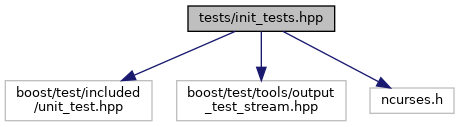
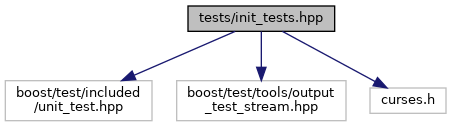
deploy: 6a7ae645a0ec2f01add3d6cbf06ce5fa4452b3d6

diff --git a/test__editor_8cpp.html b/test__editor_8cpp.html
@@ -83,26 +83,27 @@ Include dependency graph for test_editor.cpp:</div>
 <div class="dyncontent">
 <div class="center"><img src="test__editor_8cpp__incl.png" border="0" usemap="#tests_2test__editor_8cpp" alt=""/></div>
 <map name="tests_2test__editor_8cpp" id="tests_2test__editor_8cpp">
-<area shape="rect" title=" " alt="" coords="261,5,416,32"/>
-<area shape="rect" href="init__tests_8hpp.html" title=" " alt="" coords="135,80,246,107"/>
-<area shape="rect" href="editor_8hpp.html" title=" " alt="" coords="559,80,646,107"/>
-<area shape="rect" title=" " alt="" coords="25,155,172,196"/>
-<area shape="rect" title=" " alt="" coords="197,155,366,196"/>
-<area shape="rect" title=" " alt="" coords="319,319,403,345"/>
-<area shape="rect" title=" " alt="" coords="653,319,715,345"/>
-<area shape="rect" href="buffer_8hpp.html" title=" " alt="" coords="503,244,590,271"/>
-<area shape="rect" href="options_8hpp.html" title=" " alt="" coords="529,319,628,345"/>
-<area shape="rect" href="cli_8hpp.html" title=" " alt="" coords="414,244,479,271"/>
-<area shape="rect" href="mapping_8hpp.html" title=" " alt="" coords="716,244,823,271"/>
-<area shape="rect" href="parser_8hpp.html" title=" " alt="" coords="1029,319,1120,345"/>
-<area shape="rect" href="window_8hpp.html" title=" " alt="" coords="391,162,489,189"/>
-<area shape="rect" title=" " alt="" coords="549,393,608,420"/>
-<area shape="rect" title=" " alt="" coords="728,393,779,420"/>
-<area shape="rect" title=" " alt="" coords="791,319,910,345"/>
-<area shape="rect" href="util_8hpp.html" title=" " alt="" coords="934,319,1005,345"/>
-<area shape="rect" title=" " alt="" coords="935,393,1020,420"/>
-<area shape="rect" title=" " alt="" coords="1053,393,1096,420"/>
-<area shape="rect" title=" " alt="" coords="303,244,390,271"/>
+<area shape="rect" title=" " alt="" coords="424,5,579,32"/>
+<area shape="rect" href="init__tests_8hpp.html" title=" " alt="" coords="279,80,390,107"/>
+<area shape="rect" href="editor_8hpp.html" title=" " alt="" coords="741,80,827,107"/>
+<area shape="rect" title=" " alt="" coords="5,155,152,196"/>
+<area shape="rect" title=" " alt="" coords="177,155,346,196"/>
+<area shape="rect" title=" " alt="" coords="370,162,446,189"/>
+<area shape="rect" title=" " alt="" coords="1037,319,1099,345"/>
+<area shape="rect" href="buffer_8hpp.html" title=" " alt="" coords="955,244,1042,271"/>
+<area shape="rect" href="options_8hpp.html" title=" " alt="" coords="812,319,911,345"/>
+<area shape="rect" href="cli_8hpp.html" title=" " alt="" coords="866,244,931,271"/>
+<area shape="rect" href="mapping_8hpp.html" title=" " alt="" coords="521,244,628,271"/>
+<area shape="rect" href="parser_8hpp.html" title=" " alt="" coords="300,319,391,345"/>
+<area shape="rect" href="window_8hpp.html" title=" " alt="" coords="692,162,791,189"/>
+<area shape="rect" title=" " alt="" coords="832,393,891,420"/>
+<area shape="rect" title=" " alt="" coords="703,319,787,345"/>
+<area shape="rect" title=" " alt="" coords="456,393,507,420"/>
+<area shape="rect" title=" " alt="" coords="466,319,585,345"/>
+<area shape="rect" href="util_8hpp.html" title=" " alt="" coords="609,319,679,345"/>
+<area shape="rect" title=" " alt="" coords="347,393,432,420"/>
+<area shape="rect" title=" " alt="" coords="280,393,323,420"/>
+<area shape="rect" title=" " alt="" coords="703,244,790,271"/>
 </map>
 </div>
 </div>

diff --git a/test__buffer_8cpp.html b/test__buffer_8cpp.html
@@ -83,26 +83,27 @@ Include dependency graph for test_buffer.cpp:</div>
 <div class="dyncontent">
 <div class="center"><img src="test__buffer_8cpp__incl.png" border="0" usemap="#tests_2test__buffer_8cpp" alt=""/></div>
 <map name="tests_2test__buffer_8cpp" id="tests_2test__buffer_8cpp">
-<area shape="rect" title=" " alt="" coords="671,5,825,32"/>
-<area shape="rect" href="init__tests_8hpp.html" title=" " alt="" coords="358,80,469,107"/>
-<area shape="rect" href="editor_8hpp.html" title=" " alt="" coords="705,80,791,107"/>
-<area shape="rect" href="buffer_8hpp.html" title=" " alt="" coords="815,244,902,271"/>
-<area shape="rect" title=" " alt="" coords="5,155,152,196"/>
-<area shape="rect" title=" " alt="" coords="177,155,346,196"/>
-<area shape="rect" title=" " alt="" coords="699,319,783,345"/>
-<area shape="rect" title=" " alt="" coords="613,319,675,345"/>
-<area shape="rect" href="options_8hpp.html" title=" " alt="" coords="859,319,957,345"/>
-<area shape="rect" href="cli_8hpp.html" title=" " alt="" coords="978,244,1043,271"/>
-<area shape="rect" href="mapping_8hpp.html" title=" " alt="" coords="421,244,528,271"/>
-<area shape="rect" href="parser_8hpp.html" title=" " alt="" coords="208,319,299,345"/>
-<area shape="rect" href="window_8hpp.html" title=" " alt="" coords="699,162,797,189"/>
-<area shape="rect" title=" " alt="" coords="792,393,851,420"/>
-<area shape="rect" title=" " alt="" coords="455,393,505,420"/>
-<area shape="rect" title=" " alt="" coords="323,319,442,345"/>
-<area shape="rect" href="util_8hpp.html" title=" " alt="" coords="518,319,589,345"/>
-<area shape="rect" title=" " alt="" coords="323,393,408,420"/>
-<area shape="rect" title=" " alt="" coords="232,393,275,420"/>
-<area shape="rect" title=" " alt="" coords="705,244,791,271"/>
+<area shape="rect" title=" " alt="" coords="746,5,901,32"/>
+<area shape="rect" href="init__tests_8hpp.html" title=" " alt="" coords="216,80,327,107"/>
+<area shape="rect" href="editor_8hpp.html" title=" " alt="" coords="780,80,867,107"/>
+<area shape="rect" href="buffer_8hpp.html" title=" " alt="" coords="867,244,953,271"/>
+<area shape="rect" title=" " alt="" coords="106,155,253,196"/>
+<area shape="rect" title=" " alt="" coords="277,155,447,196"/>
+<area shape="rect" title=" " alt="" coords="5,162,81,189"/>
+<area shape="rect" title=" " alt="" coords="696,319,759,345"/>
+<area shape="rect" href="options_8hpp.html" title=" " alt="" coords="942,319,1041,345"/>
+<area shape="rect" href="cli_8hpp.html" title=" " alt="" coords="1029,244,1095,271"/>
+<area shape="rect" href="mapping_8hpp.html" title=" " alt="" coords="522,244,629,271"/>
+<area shape="rect" href="parser_8hpp.html" title=" " alt="" coords="291,319,382,345"/>
+<area shape="rect" href="window_8hpp.html" title=" " alt="" coords="774,162,873,189"/>
+<area shape="rect" title=" " alt="" coords="875,393,934,420"/>
+<area shape="rect" title=" " alt="" coords="783,319,867,345"/>
+<area shape="rect" title=" " alt="" coords="633,393,683,420"/>
+<area shape="rect" title=" " alt="" coords="407,319,525,345"/>
+<area shape="rect" href="util_8hpp.html" title=" " alt="" coords="549,319,620,345"/>
+<area shape="rect" title=" " alt="" coords="453,393,538,420"/>
+<area shape="rect" title=" " alt="" coords="315,393,358,420"/>
+<area shape="rect" title=" " alt="" coords="704,244,791,271"/>
 </map>
 </div>
 </div>

diff --git a/test__window_8cpp.html b/test__window_8cpp.html
@@ -83,18 +83,19 @@ Include dependency graph for test_window.cpp:</div>
 <div class="dyncontent">
 <div class="center"><img src="test__window_8cpp__incl.png" border="0" usemap="#tests_2test__window_8cpp" alt=""/></div>
 <map name="tests_2test__window_8cpp" id="tests_2test__window_8cpp">
-<area shape="rect" title=" " alt="" coords="305,5,471,32"/>
-<area shape="rect" href="init__tests_8hpp.html" title=" " alt="" coords="269,80,379,107"/>
-<area shape="rect" href="window_8hpp.html" title=" " alt="" coords="425,80,524,107"/>
+<area shape="rect" title=" " alt="" coords="343,5,510,32"/>
+<area shape="rect" href="init__tests_8hpp.html" title=" " alt="" coords="307,80,418,107"/>
+<area shape="rect" href="window_8hpp.html" title=" " alt="" coords="504,80,603,107"/>
 <area shape="rect" title=" " alt="" coords="5,155,152,196"/>
 <area shape="rect" title=" " alt="" coords="177,155,346,196"/>
-<area shape="rect" title=" " alt="" coords="393,244,477,271"/>
-<area shape="rect" title=" " alt="" coords="473,162,559,189"/>
-<area shape="rect" href="buffer_8hpp.html" title=" " alt="" coords="583,162,670,189"/>
-<area shape="rect" title=" " alt="" coords="576,319,635,345"/>
-<area shape="rect" title=" " alt="" coords="595,244,658,271"/>
-<area shape="rect" href="options_8hpp.html" title=" " alt="" coords="683,244,781,271"/>
-<area shape="rect" title=" " alt="" coords="707,319,757,345"/>
+<area shape="rect" title=" " alt="" coords="370,162,446,189"/>
+<area shape="rect" title=" " alt="" coords="470,162,557,189"/>
+<area shape="rect" title=" " alt="" coords="553,244,637,271"/>
+<area shape="rect" href="buffer_8hpp.html" title=" " alt="" coords="633,162,719,189"/>
+<area shape="rect" title=" " alt="" coords="693,319,752,345"/>
+<area shape="rect" title=" " alt="" coords="713,244,775,271"/>
+<area shape="rect" href="options_8hpp.html" title=" " alt="" coords="800,244,899,271"/>
+<area shape="rect" title=" " alt="" coords="824,319,875,345"/>
 </map>
 </div>
 </div>

diff --git a/init__tests_8hpp_source.html b/init__tests_8hpp_source.html
@@ -90,7 +90,7 @@ $(function() {
 <div class="line"><a name="l00016"></a><span class="lineno"><a class="line" href="init__tests_8hpp.html#a9bf17d1d419bd14f7448c6f07e6081db">   16</a></span>&#160;<span class="keyword">using</span> <a class="code" href="init__tests_8hpp.html#a9bf17d1d419bd14f7448c6f07e6081db">boost_timeout</a> = boost::unit_test::timeout;</div>
 <div class="line"><a name="l00017"></a><span class="lineno">   17</span>&#160; </div>
 <div class="line"><a name="l00018"></a><span class="lineno">   18</span>&#160; </div>
-<div class="line"><a name="l00019"></a><span class="lineno">   19</span>&#160;<span class="preprocessor">#include &lt;ncurses.h&gt;</span></div>
+<div class="line"><a name="l00019"></a><span class="lineno">   19</span>&#160;<span class="preprocessor">#include &lt;curses.h&gt;</span></div>
 <div class="line"><a name="l00020"></a><span class="lineno">   20</span>&#160; </div>
 <div class="line"><a name="l00021"></a><span class="lineno"><a class="line" href="init__tests_8hpp.html#acc4d9e689a782bde5cf613c651121ba2">   21</a></span>&#160;<span class="keywordtype">void</span> <a class="code" href="init__tests_8hpp.html#acc4d9e689a782bde5cf613c651121ba2">unget_string_to_ncurses</a>(std::string s)</div>
 <div class="line"><a name="l00022"></a><span class="lineno">   22</span>&#160;{</div>

diff --git a/init__tests_8hpp.html b/init__tests_8hpp.html
@@ -79,7 +79,7 @@ $(function() {
 <div class="contents">
 <div class="textblock"><code>#include &lt;boost/test/included/unit_test.hpp&gt;</code><br />
 <code>#include &lt;boost/test/tools/output_test_stream.hpp&gt;</code><br />
-<code>#include &lt;ncurses.h&gt;</code><br />
+<code>#include &lt;curses.h&gt;</code><br />
 </div><div class="textblock"><div class="dynheader">
 Include dependency graph for init_tests.hpp:</div>
 <div class="dyncontent">
@@ -88,7 +88,7 @@ Include dependency graph for init_tests.hpp:</div>
 <area shape="rect" title=" " alt="" coords="188,5,335,32"/>
 <area shape="rect" title=" " alt="" coords="5,80,152,121"/>
 <area shape="rect" title=" " alt="" coords="177,80,346,121"/>
-<area shape="rect" title=" " alt="" coords="370,87,454,114"/>
+<area shape="rect" title=" " alt="" coords="370,87,446,114"/>
 </map>
 </div>
 </div><div class="textblock"><div class="dynheader">
